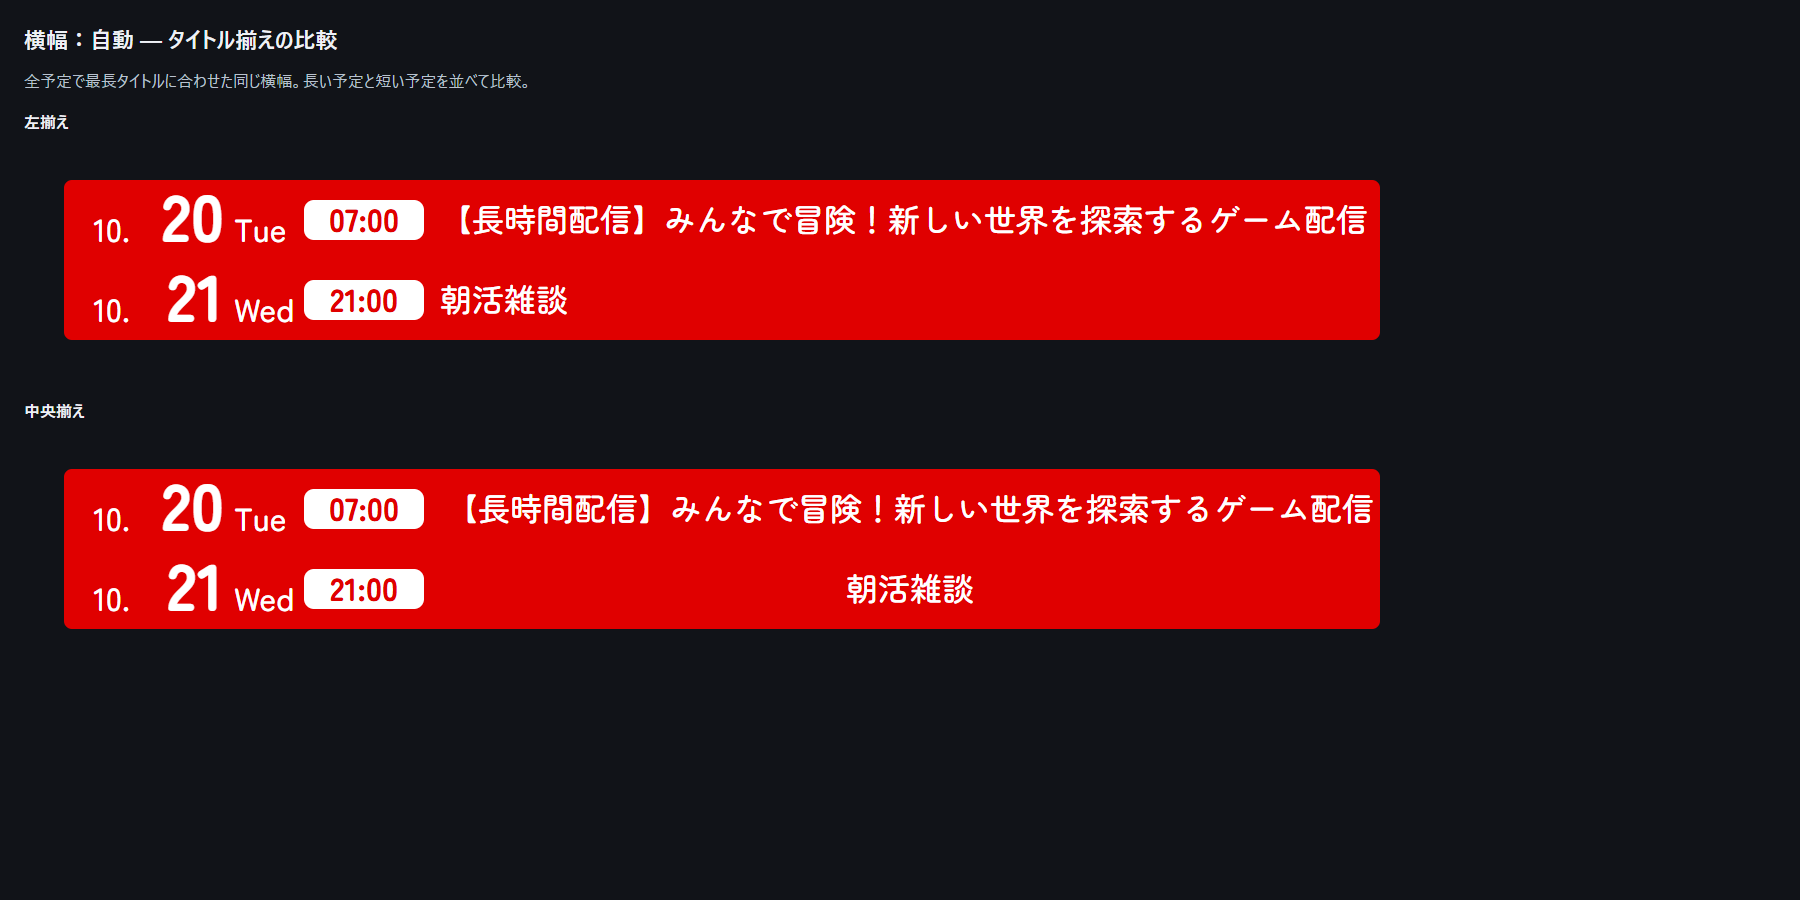
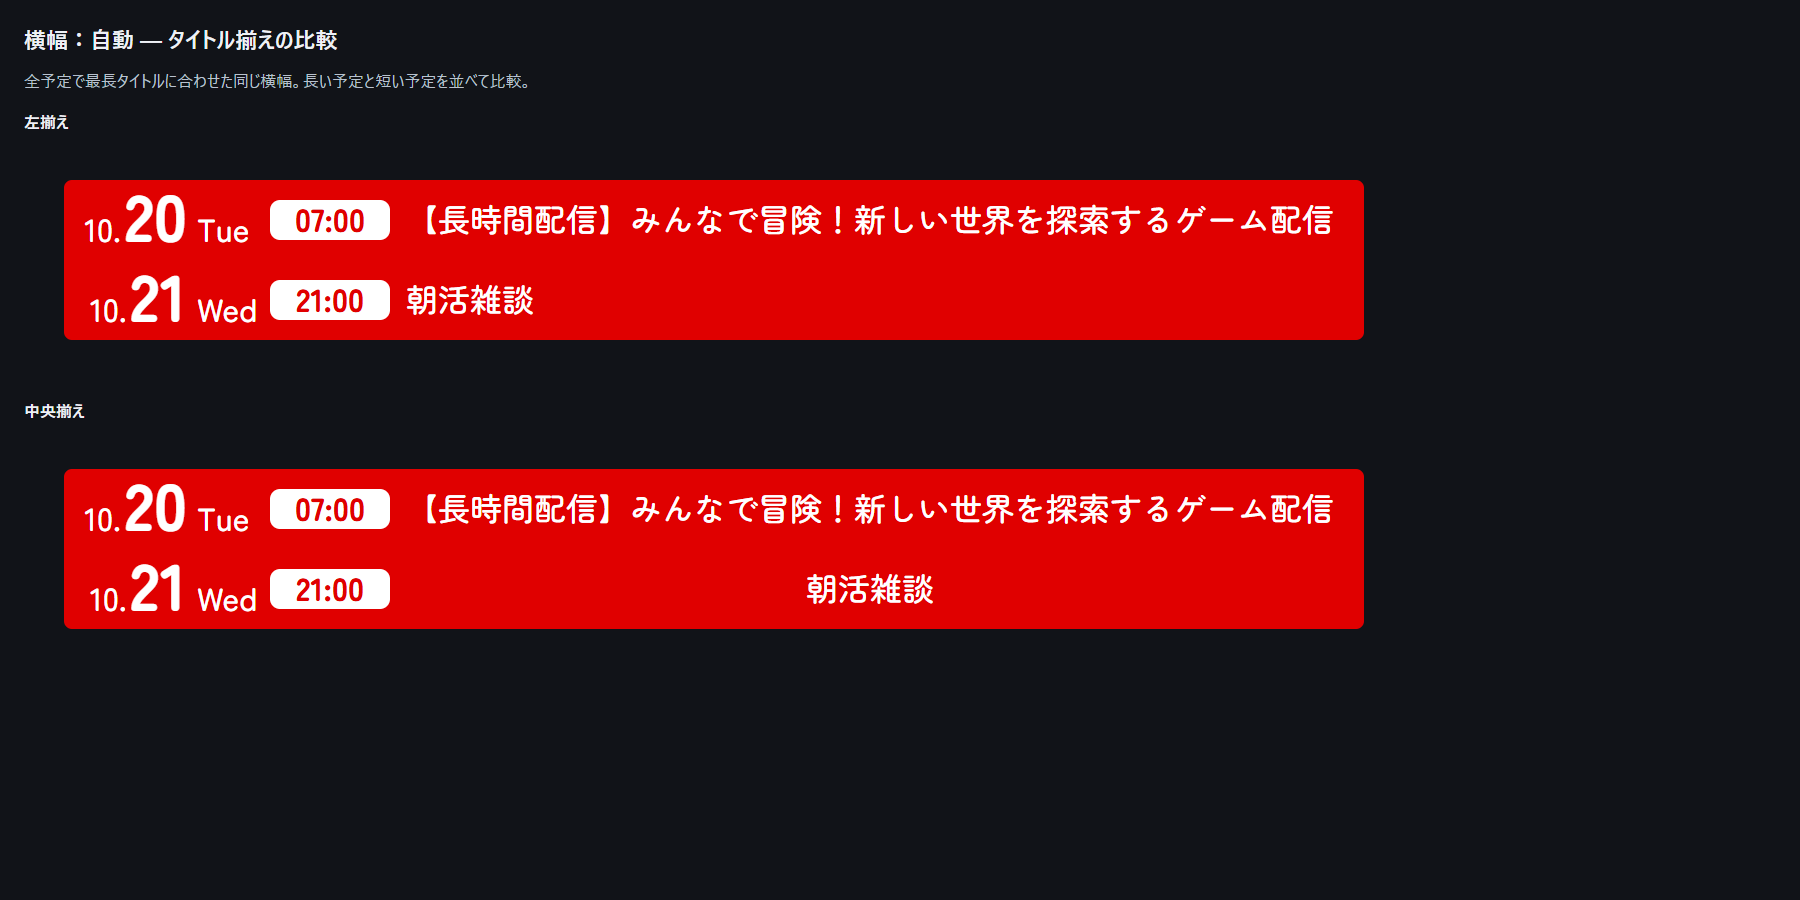
Apply approved date spacing and trailing title inset

diff --git a/docs/alignment-comparison.html b/docs/alignment-comparison.html
@@ -67,8 +67,17 @@ schedule.simple .line {
 }
 
 
+schedule.simple .date {
+	display: flex;
+	justify-content: flex-end;
+	align-items: flex-start;
+	flex: 0 0 var(--date-width, auto);
+	margin-left: 20px;
+	gap: 3px;
+	height: 100%;
+}
 schedule.simple .day {
-	flex: 0 0 88px; height: 100%;
+	flex: none; height: 100%;
 	font-size: 66px;
 	font-weight: 900;
 	line-height: 1em;
@@ -76,8 +85,8 @@ schedule.simple .day {
 	color: #333;
 }
 schedule.simple .month {
-	flex: 0 0 72px; height: 100%;
-	padding: 32px 6px 0 0;
+	flex: none; height: 100%;
+	padding: 32px 0 0;
 	text-align: right;
 	white-space: nowrap; /* 「.」が次の行に折り返されないように */ /* .dow と同じ下端 = 日付のインク下端に揃える(実測) */
 	font-size: 32px;
@@ -86,8 +95,8 @@ schedule.simple .month {
 	color: #333;
 }
 schedule.simple .dow {
-	flex: 0 0 80px; height: 100%;
-	padding: 32px 0 0 10px; /* 20pxから32pxへ: 日付のインク下端に揃える(実測Δ=12px) */
+	flex: 0 0 var(--weekday-width, 80px); height: 100%;
+	padding: 32px 12px 0 10px;
 	font-size: 32px;
 	font-weight: 500;
 	line-height: 1em;
@@ -108,7 +117,7 @@ schedule.simple .time {
 }
 schedule.simple .text {
 	flex: 1 1 0; min-width: 0;
-	margin: 0 0 0 16px; padding: 22px 0 0;
+	margin: 0 0 0 16px; padding: 22px 30px 0 0;
 	color: #333;
 	font-size: 32px;
 	font-weight: 500;
@@ -225,11 +234,11 @@ schedule.tate .text {
 schedule.tate .time.is-empty,
 schedule.tate .text.is-empty { display: none; }
 </style>
-<style id=&quot;vschedule-anim&quot;>schedule .line.vsl .text{text-align:left;}schedule.simple .line.is-off .text{margin-left:136px;}schedule.tate .line .time{width:168px;}schedule.tate .line .text{width:100%;}schedule .line.is-off .time{display:none;}schedule .line.is-off .text{margin-top:0;}schedule{position:relative;}schedule .line{position:relative;z-index:1;}schedule .bgbox{position:absolute;left:40px;top:40px;z-index:0;box-sizing:border-box;width:1316px;height:80px;background:#e00000;border:3px solid transparent;border-radius:8px;}@keyframes vslLines{0.0000%{transform:translateY(0px)}46.4286%{transform:translateY(0px)}50.0000%{transform:translateY(-80px)}96.4286%{transform:translateY(-80px)}100.0000%{transform:translateY(0px)}}schedule .line.vsl{animation-name:vslLines;animation-duration:30.00s;animation-timing-function:ease;animation-iteration-count:infinite;}</style></head>
+<style id=&quot;vschedule-anim&quot;>schedule .line.vsl .text{text-align:left;}schedule.simple .line.is-off .text{margin-left:136px;}schedule.tate .line .time{width:168px;}schedule.tate .line .text{width:100%;}schedule .line.is-off .time{display:none;}schedule .line.is-off .text{margin-top:0;}schedule{position:relative;}schedule .line{position:relative;z-index:1;}schedule .bgbox{position:absolute;left:40px;top:40px;z-index:0;box-sizing:border-box;width:1300px;height:80px;background:#e00000;border:3px solid transparent;border-radius:8px;}@keyframes vslLines{0.0000%{transform:translateY(0px)}46.4286%{transform:translateY(0px)}50.0000%{transform:translateY(-80px)}96.4286%{transform:translateY(-80px)}100.0000%{transform:translateY(0px)}}schedule .line.vsl{animation-name:vslLines;animation-duration:30.00s;animation-timing-function:ease;animation-iteration-count:infinite;}</style></head>
 <body>
 	<h1>V-SCHEDULE</h1>
-	<schedule class=&quot;simple&quot; style=&quot;position: relative; opacity: 1; width: 1396px;&quot;><div class=&quot;bgbox&quot;></div>
-		<inner style=&quot;width: 1316px;&quot;><div class=&quot;line vsl yoko&quot;><p class=&quot;month&quot; style=&quot;color: rgb(255, 255, 255);&quot;>10.</p><p class=&quot;day&quot; style=&quot;color: rgb(255, 255, 255);&quot;>20</p><p class=&quot;dow&quot; style=&quot;color: rgb(255, 255, 255);&quot;>Tue</p><p class=&quot;time&quot; style=&quot;background: rgb(255, 255, 255); color: rgb(224, 0, 0);&quot;>07:00</p><p class=&quot;text&quot; style=&quot;color: rgb(255, 255, 255);&quot;>【長時間配信】みんなで冒険！新しい世界を探索するゲーム配信</p></div><div class=&quot;line vsl yoko&quot;><p class=&quot;month&quot; style=&quot;color: rgb(255, 255, 255);&quot;>10.</p><p class=&quot;day&quot; style=&quot;color: rgb(255, 255, 255);&quot;>21</p><p class=&quot;dow&quot; style=&quot;color: rgb(255, 255, 255);&quot;>Wed</p><p class=&quot;time&quot; style=&quot;background: rgb(255, 255, 255); color: rgb(224, 0, 0);&quot;>21:00</p><p class=&quot;text&quot; style=&quot;color: rgb(255, 255, 255);&quot;>朝活雑談</p></div></inner>
+	<schedule class=&quot;simple&quot; style=&quot;position: relative; --date-width: 103px; --weekday-width: 83px; opacity: 1; width: 1380px;&quot;><div class=&quot;bgbox&quot;></div>
+		<inner style=&quot;width: 1300px;&quot;><div class=&quot;line vsl yoko&quot;><div class=&quot;date&quot;><p class=&quot;month&quot; style=&quot;color: rgb(255, 255, 255);&quot;>10.</p><p class=&quot;day&quot; style=&quot;color: rgb(255, 255, 255);&quot;>20</p></div><p class=&quot;dow&quot; style=&quot;color: rgb(255, 255, 255);&quot;>Tue</p><p class=&quot;time&quot; style=&quot;background: rgb(255, 255, 255); color: rgb(224, 0, 0);&quot;>07:00</p><p class=&quot;text&quot; style=&quot;color: rgb(255, 255, 255);&quot;>【長時間配信】みんなで冒険！新しい世界を探索するゲーム配信</p></div><div class=&quot;line vsl yoko&quot;><div class=&quot;date&quot;><p class=&quot;month&quot; style=&quot;color: rgb(255, 255, 255);&quot;>10.</p><p class=&quot;day&quot; style=&quot;color: rgb(255, 255, 255);&quot;>21</p></div><p class=&quot;dow&quot; style=&quot;color: rgb(255, 255, 255);&quot;>Wed</p><p class=&quot;time&quot; style=&quot;background: rgb(255, 255, 255); color: rgb(224, 0, 0);&quot;>21:00</p><p class=&quot;text&quot; style=&quot;color: rgb(255, 255, 255);&quot;>朝活雑談</p></div></inner>
 	</schedule>
 
 
@@ -299,8 +308,17 @@ schedule.simple .line {
 }
 
 
+schedule.simple .date {
+	display: flex;
+	justify-content: flex-end;
+	align-items: flex-start;
+	flex: 0 0 var(--date-width, auto);
+	margin-left: 20px;
+	gap: 3px;
+	height: 100%;
+}
 schedule.simple .day {
-	flex: 0 0 88px; height: 100%;
+	flex: none; height: 100%;
 	font-size: 66px;
 	font-weight: 900;
 	line-height: 1em;
@@ -308,8 +326,8 @@ schedule.simple .day {
 	color: #333;
 }
 schedule.simple .month {
-	flex: 0 0 72px; height: 100%;
-	padding: 32px 6px 0 0;
+	flex: none; height: 100%;
+	padding: 32px 0 0;
 	text-align: right;
 	white-space: nowrap; /* 「.」が次の行に折り返されないように */ /* .dow と同じ下端 = 日付のインク下端に揃える(実測) */
 	font-size: 32px;
@@ -318,8 +336,8 @@ schedule.simple .month {
 	color: #333;
 }
 schedule.simple .dow {
-	flex: 0 0 80px; height: 100%;
-	padding: 32px 0 0 10px; /* 20pxから32pxへ: 日付のインク下端に揃える(実測Δ=12px) */
+	flex: 0 0 var(--weekday-width, 80px); height: 100%;
+	padding: 32px 12px 0 10px;
 	font-size: 32px;
 	font-weight: 500;
 	line-height: 1em;
@@ -340,7 +358,7 @@ schedule.simple .time {
 }
 schedule.simple .text {
 	flex: 1 1 0; min-width: 0;
-	margin: 0 0 0 16px; padding: 22px 0 0;
+	margin: 0 0 0 16px; padding: 22px 30px 0 0;
 	color: #333;
 	font-size: 32px;
 	font-weight: 500;
@@ -457,11 +475,11 @@ schedule.tate .text {
 schedule.tate .time.is-empty,
 schedule.tate .text.is-empty { display: none; }
 </style>
-<style id=&quot;vschedule-anim&quot;>schedule .line.vsl .text{text-align:center;}schedule.simple .line.is-off .text{margin-left:136px;}schedule.tate .line .time{width:168px;}schedule.tate .line .text{width:100%;}schedule .line.is-off .time{display:none;}schedule .line.is-off .text{margin-top:0;}schedule{position:relative;}schedule .line{position:relative;z-index:1;}schedule .bgbox{position:absolute;left:40px;top:40px;z-index:0;box-sizing:border-box;width:1316px;height:80px;background:#e00000;border:3px solid transparent;border-radius:8px;}@keyframes vslLines{0.0000%{transform:translateY(0px)}46.4286%{transform:translateY(0px)}50.0000%{transform:translateY(-80px)}96.4286%{transform:translateY(-80px)}100.0000%{transform:translateY(0px)}}schedule .line.vsl{animation-name:vslLines;animation-duration:30.00s;animation-timing-function:ease;animation-iteration-count:infinite;}</style></head>
+<style id=&quot;vschedule-anim&quot;>schedule .line.vsl .text{text-align:center;}schedule.simple .line.is-off .text{margin-left:136px;}schedule.tate .line .time{width:168px;}schedule.tate .line .text{width:100%;}schedule .line.is-off .time{display:none;}schedule .line.is-off .text{margin-top:0;}schedule{position:relative;}schedule .line{position:relative;z-index:1;}schedule .bgbox{position:absolute;left:40px;top:40px;z-index:0;box-sizing:border-box;width:1300px;height:80px;background:#e00000;border:3px solid transparent;border-radius:8px;}@keyframes vslLines{0.0000%{transform:translateY(0px)}46.4286%{transform:translateY(0px)}50.0000%{transform:translateY(-80px)}96.4286%{transform:translateY(-80px)}100.0000%{transform:translateY(0px)}}schedule .line.vsl{animation-name:vslLines;animation-duration:30.00s;animation-timing-function:ease;animation-iteration-count:infinite;}</style></head>
 <body>
 	<h1>V-SCHEDULE</h1>
-	<schedule class=&quot;simple&quot; style=&quot;position: relative; opacity: 1; width: 1396px;&quot;><div class=&quot;bgbox&quot;></div>
-		<inner style=&quot;width: 1316px;&quot;><div class=&quot;line vsl yoko&quot;><p class=&quot;month&quot; style=&quot;color: rgb(255, 255, 255);&quot;>10.</p><p class=&quot;day&quot; style=&quot;color: rgb(255, 255, 255);&quot;>20</p><p class=&quot;dow&quot; style=&quot;color: rgb(255, 255, 255);&quot;>Tue</p><p class=&quot;time&quot; style=&quot;background: rgb(255, 255, 255); color: rgb(224, 0, 0);&quot;>07:00</p><p class=&quot;text&quot; style=&quot;color: rgb(255, 255, 255);&quot;>【長時間配信】みんなで冒険！新しい世界を探索するゲーム配信</p></div><div class=&quot;line vsl yoko&quot;><p class=&quot;month&quot; style=&quot;color: rgb(255, 255, 255);&quot;>10.</p><p class=&quot;day&quot; style=&quot;color: rgb(255, 255, 255);&quot;>21</p><p class=&quot;dow&quot; style=&quot;color: rgb(255, 255, 255);&quot;>Wed</p><p class=&quot;time&quot; style=&quot;background: rgb(255, 255, 255); color: rgb(224, 0, 0);&quot;>21:00</p><p class=&quot;text&quot; style=&quot;color: rgb(255, 255, 255);&quot;>朝活雑談</p></div></inner>
+	<schedule class=&quot;simple&quot; style=&quot;position: relative; --date-width: 103px; --weekday-width: 83px; opacity: 1; width: 1380px;&quot;><div class=&quot;bgbox&quot;></div>
+		<inner style=&quot;width: 1300px;&quot;><div class=&quot;line vsl yoko&quot;><div class=&quot;date&quot;><p class=&quot;month&quot; style=&quot;color: rgb(255, 255, 255);&quot;>10.</p><p class=&quot;day&quot; style=&quot;color: rgb(255, 255, 255);&quot;>20</p></div><p class=&quot;dow&quot; style=&quot;color: rgb(255, 255, 255);&quot;>Tue</p><p class=&quot;time&quot; style=&quot;background: rgb(255, 255, 255); color: rgb(224, 0, 0);&quot;>07:00</p><p class=&quot;text&quot; style=&quot;color: rgb(255, 255, 255);&quot;>【長時間配信】みんなで冒険！新しい世界を探索するゲーム配信</p></div><div class=&quot;line vsl yoko&quot;><div class=&quot;date&quot;><p class=&quot;month&quot; style=&quot;color: rgb(255, 255, 255);&quot;>10.</p><p class=&quot;day&quot; style=&quot;color: rgb(255, 255, 255);&quot;>21</p></div><p class=&quot;dow&quot; style=&quot;color: rgb(255, 255, 255);&quot;>Wed</p><p class=&quot;time&quot; style=&quot;background: rgb(255, 255, 255); color: rgb(224, 0, 0);&quot;>21:00</p><p class=&quot;text&quot; style=&quot;color: rgb(255, 255, 255);&quot;>朝活雑談</p></div></inner>
 	</schedule>
 
 

diff --git a/assets/skin/simple/style.css b/assets/skin/simple/style.css
@@ -39,8 +39,17 @@ schedule.simple .line {
 }
 
 
+schedule.simple .date {
+	display: flex;
+	justify-content: flex-end;
+	align-items: flex-start;
+	flex: 0 0 var(--date-width, auto);
+	margin-left: 20px;
+	gap: 3px;
+	height: 100%;
+}
 schedule.simple .day {
-	flex: 0 0 88px; height: 100%;
+	flex: none; height: 100%;
 	font-size: 66px;
 	font-weight: 900;
 	line-height: 1em;
@@ -48,8 +57,8 @@ schedule.simple .day {
 	color: #333;
 }
 schedule.simple .month {
-	flex: 0 0 72px; height: 100%;
-	padding: 32px 6px 0 0;
+	flex: none; height: 100%;
+	padding: 32px 0 0;
 	text-align: right;
 	white-space: nowrap; /* 「.」が次の行に折り返されないように */ /* .dow と同じ下端 = 日付のインク下端に揃える(実測) */
 	font-size: 32px;
@@ -58,8 +67,8 @@ schedule.simple .month {
 	color: #333;
 }
 schedule.simple .dow {
-	flex: 0 0 80px; height: 100%;
-	padding: 32px 0 0 10px; /* 20pxから32pxへ: 日付のインク下端に揃える(実測Δ=12px) */
+	flex: 0 0 var(--weekday-width, 80px); height: 100%;
+	padding: 32px 12px 0 10px;
 	font-size: 32px;
 	font-weight: 500;
 	line-height: 1em;
@@ -80,7 +89,7 @@ schedule.simple .time {
 }
 schedule.simple .text {
 	flex: 1 1 0; min-width: 0;
-	margin: 0 0 0 16px; padding: 22px 0 0;
+	margin: 0 0 0 16px; padding: 22px 30px 0 0;
 	color: #333;
 	font-size: 32px;
 	font-weight: 500;

diff --git a/view.html b/view.html
@@ -4,10 +4,10 @@
 	<meta charset="utf-8">
 	<meta http-equiv="content-language" content="ja">
 	<title>V-Schedule</title>
-	<script src="assets/view.js?v=20261014a"></script>
-	<link rel="stylesheet" href="assets/view.css?v=20261014a">
-	<link rel="stylesheet" href="assets/skin/import.css?v=20261014a">
-	<link rel="stylesheet" href="assets/theme/tate.css?v=20261014a">
+	<script src="assets/view.js?v=20261014b"></script>
+	<link rel="stylesheet" href="assets/view.css?v=20261014b">
+	<link rel="stylesheet" href="assets/skin/import.css?v=20261014b">
+	<link rel="stylesheet" href="assets/theme/tate.css?v=20261014b">
 </head>
 <body>
 	<h1>V-SCHEDULE</h1>

diff --git a/control.html b/control.html
@@ -4,7 +4,7 @@
 	<meta charset="utf-8">
 	<meta name="viewport" content="width=device-width,initial-scale=1">
 	<title>V-Schedule Control</title>
-	<link rel="stylesheet" href="assets/control.css?v=20261014a">
+	<link rel="stylesheet" href="assets/control.css?v=20261014b">
 </head>
 <body>
 	<header>
@@ -148,6 +148,6 @@
 		</footer>
 	</section>
 
-	<script src="assets/control.js?v=20261014a"></script>
+	<script src="assets/control.js?v=20261014b"></script>
 </body>
 </html>

diff --git a/docs/display-options.md b/docs/display-options.md
@@ -7,3 +7,5 @@
 比較画像は実際の表示から作成し、長い予定と短い予定を同時に並べています。
 
 ![左揃え・中央揃えの比較](alignment-comparison.png)
+
+横表示の確定値：月と日の間隔3px、日から曜日10px、タイトル右余白30px、初期値は左揃え。日付・曜日の欄は文字幅を実測して詰め、1桁の日も曜日への間隔を保ちます。時刻の縦位置・太さ・上下余白は従来の表示を維持しています。
